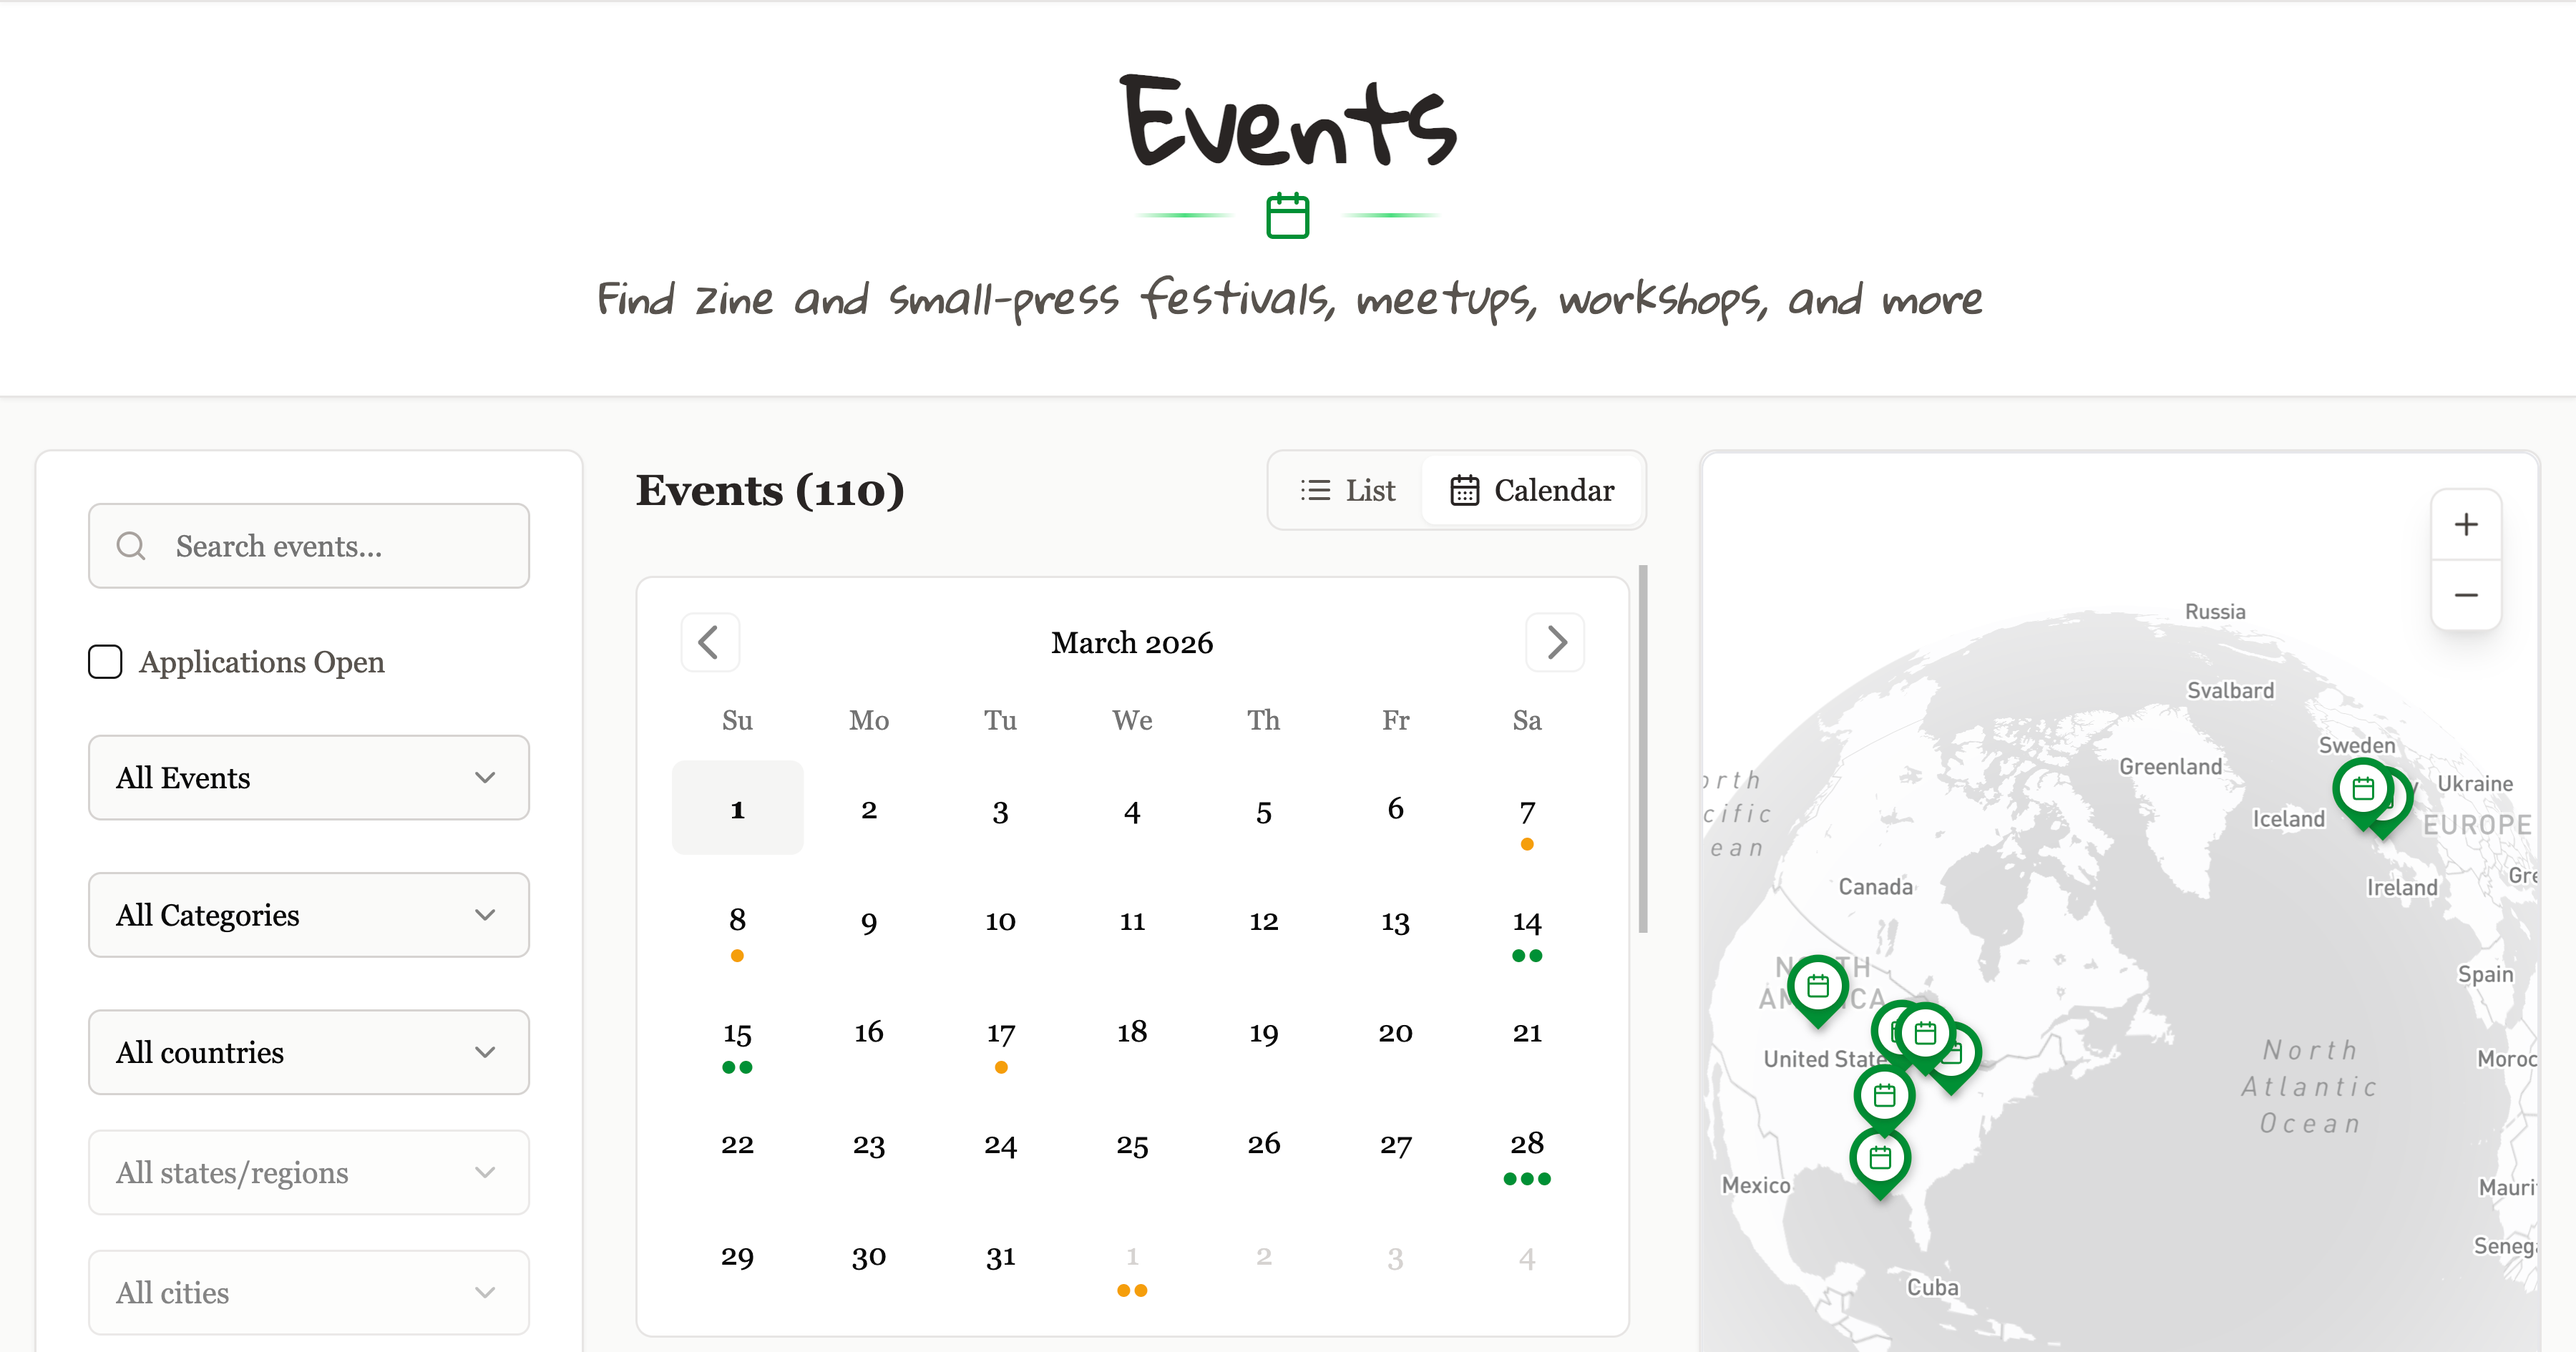
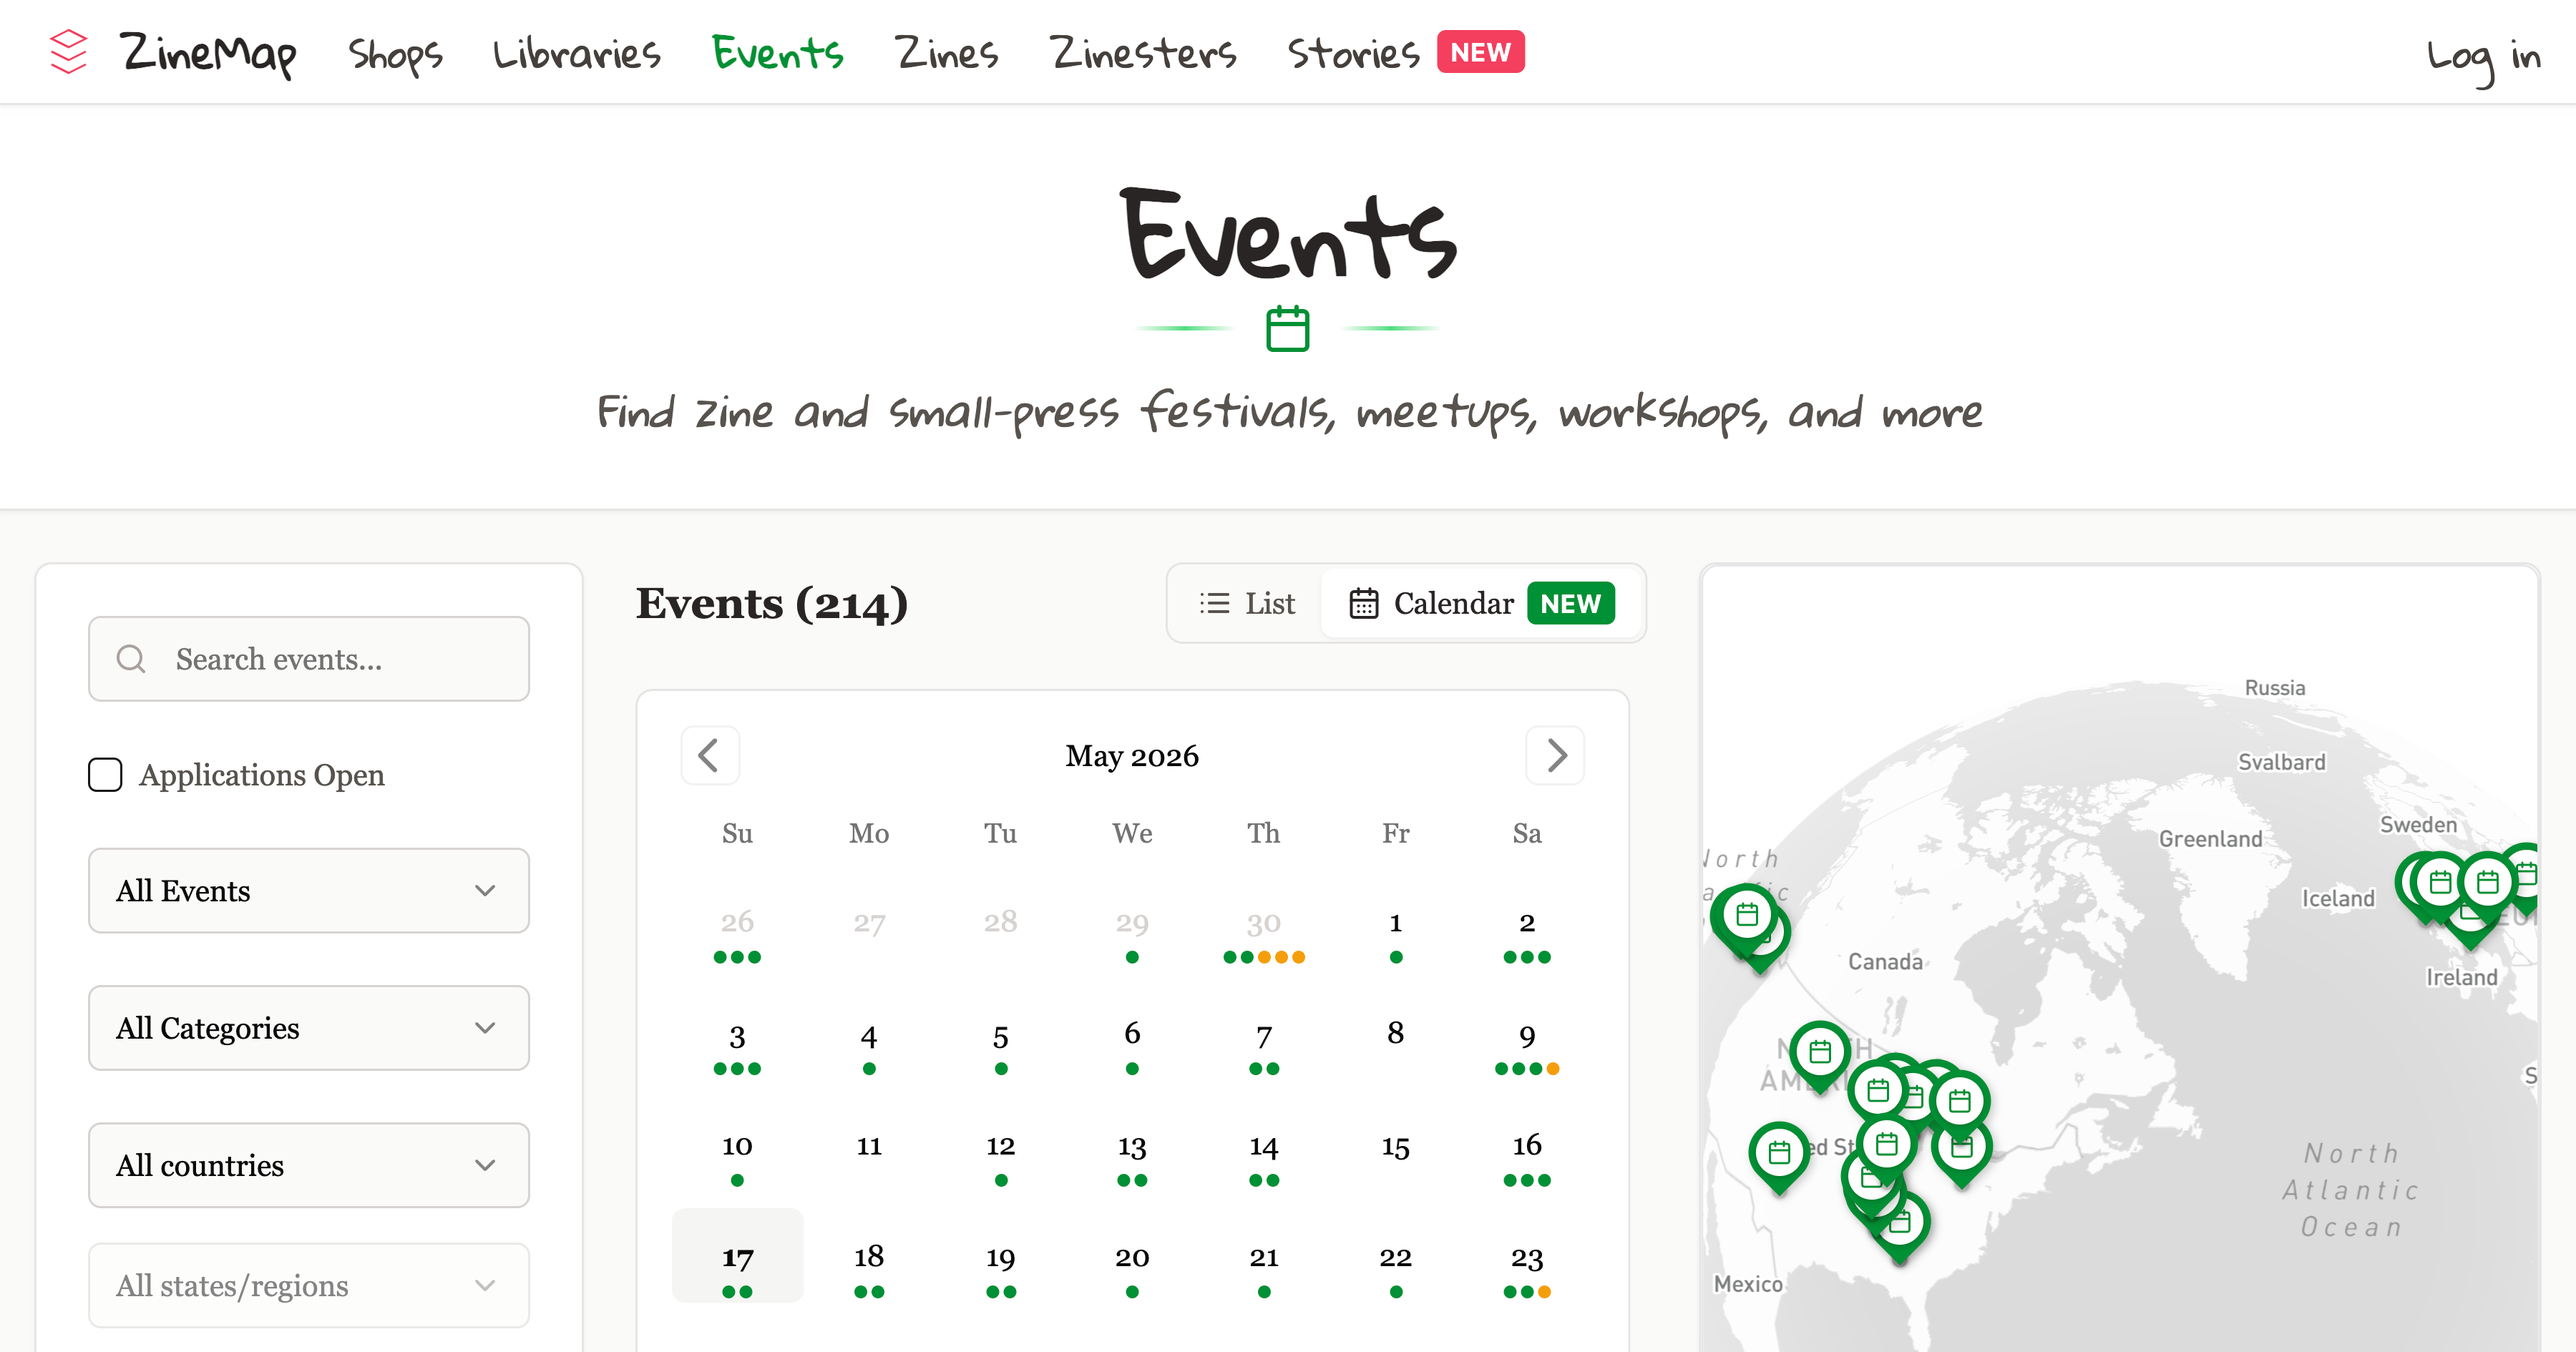
update social preview manually

diff --git a/app/libraries/layout.tsx b/app/libraries/layout.tsx
@@ -13,7 +13,7 @@ export const metadata: Metadata = {
     siteName: 'ZineMap',
     images: [
       {
-        url: '/preview-image.png',
+        url: '/preview-libraries.png',
         width: 1200,
         height: 630,
         alt: 'Libraries - ZineMap',
@@ -24,6 +24,7 @@ export const metadata: Metadata = {
     card: 'summary_large_image',
     title: 'Libraries - ZineMap',
     description: 'Explore libraries with zine collections worldwide.',
+    images: ['/preview-libraries.png'],
   },
 }
 

diff --git a/app/stores/layout.tsx b/app/stores/layout.tsx
@@ -13,7 +13,7 @@ export const metadata: Metadata = {
     siteName: 'ZineMap',
     images: [
       {
-        url: '/preview-image.png',
+        url: '/preview-shops.png',
         width: 1200,
         height: 630,
         alt: 'Shops - ZineMap',
@@ -24,6 +24,7 @@ export const metadata: Metadata = {
     card: 'summary_large_image',
     title: 'Shops - ZineMap',
     description: 'Find indie shops and bookstores that stock zines worldwide.',
+    images: ['/preview-shops.png'],
   },
 }
 
